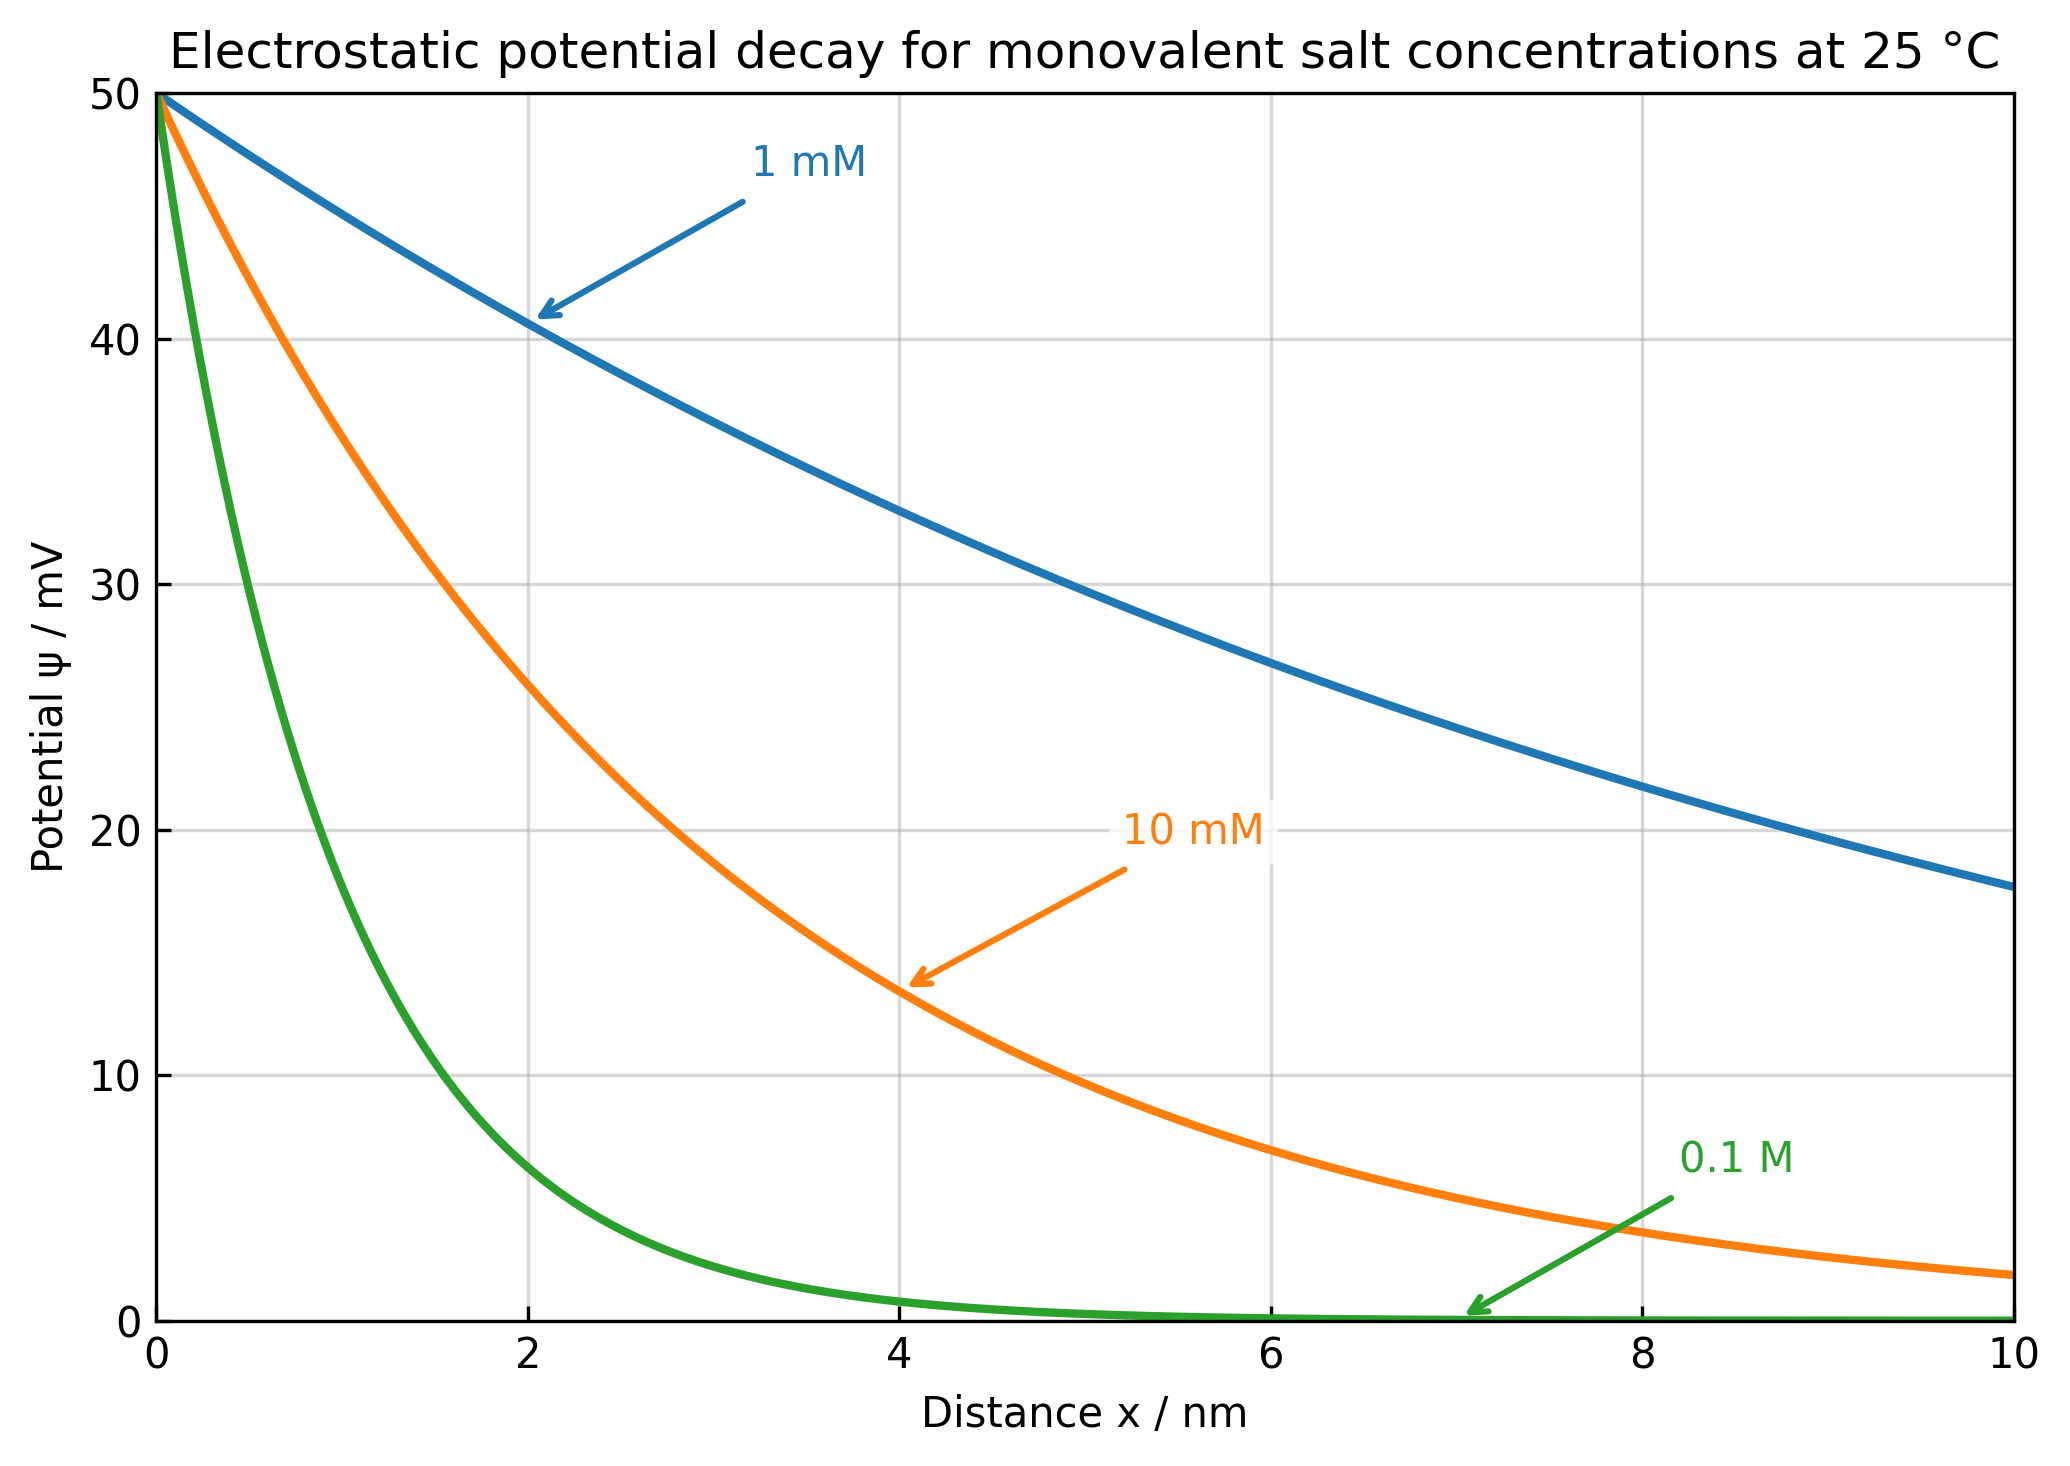
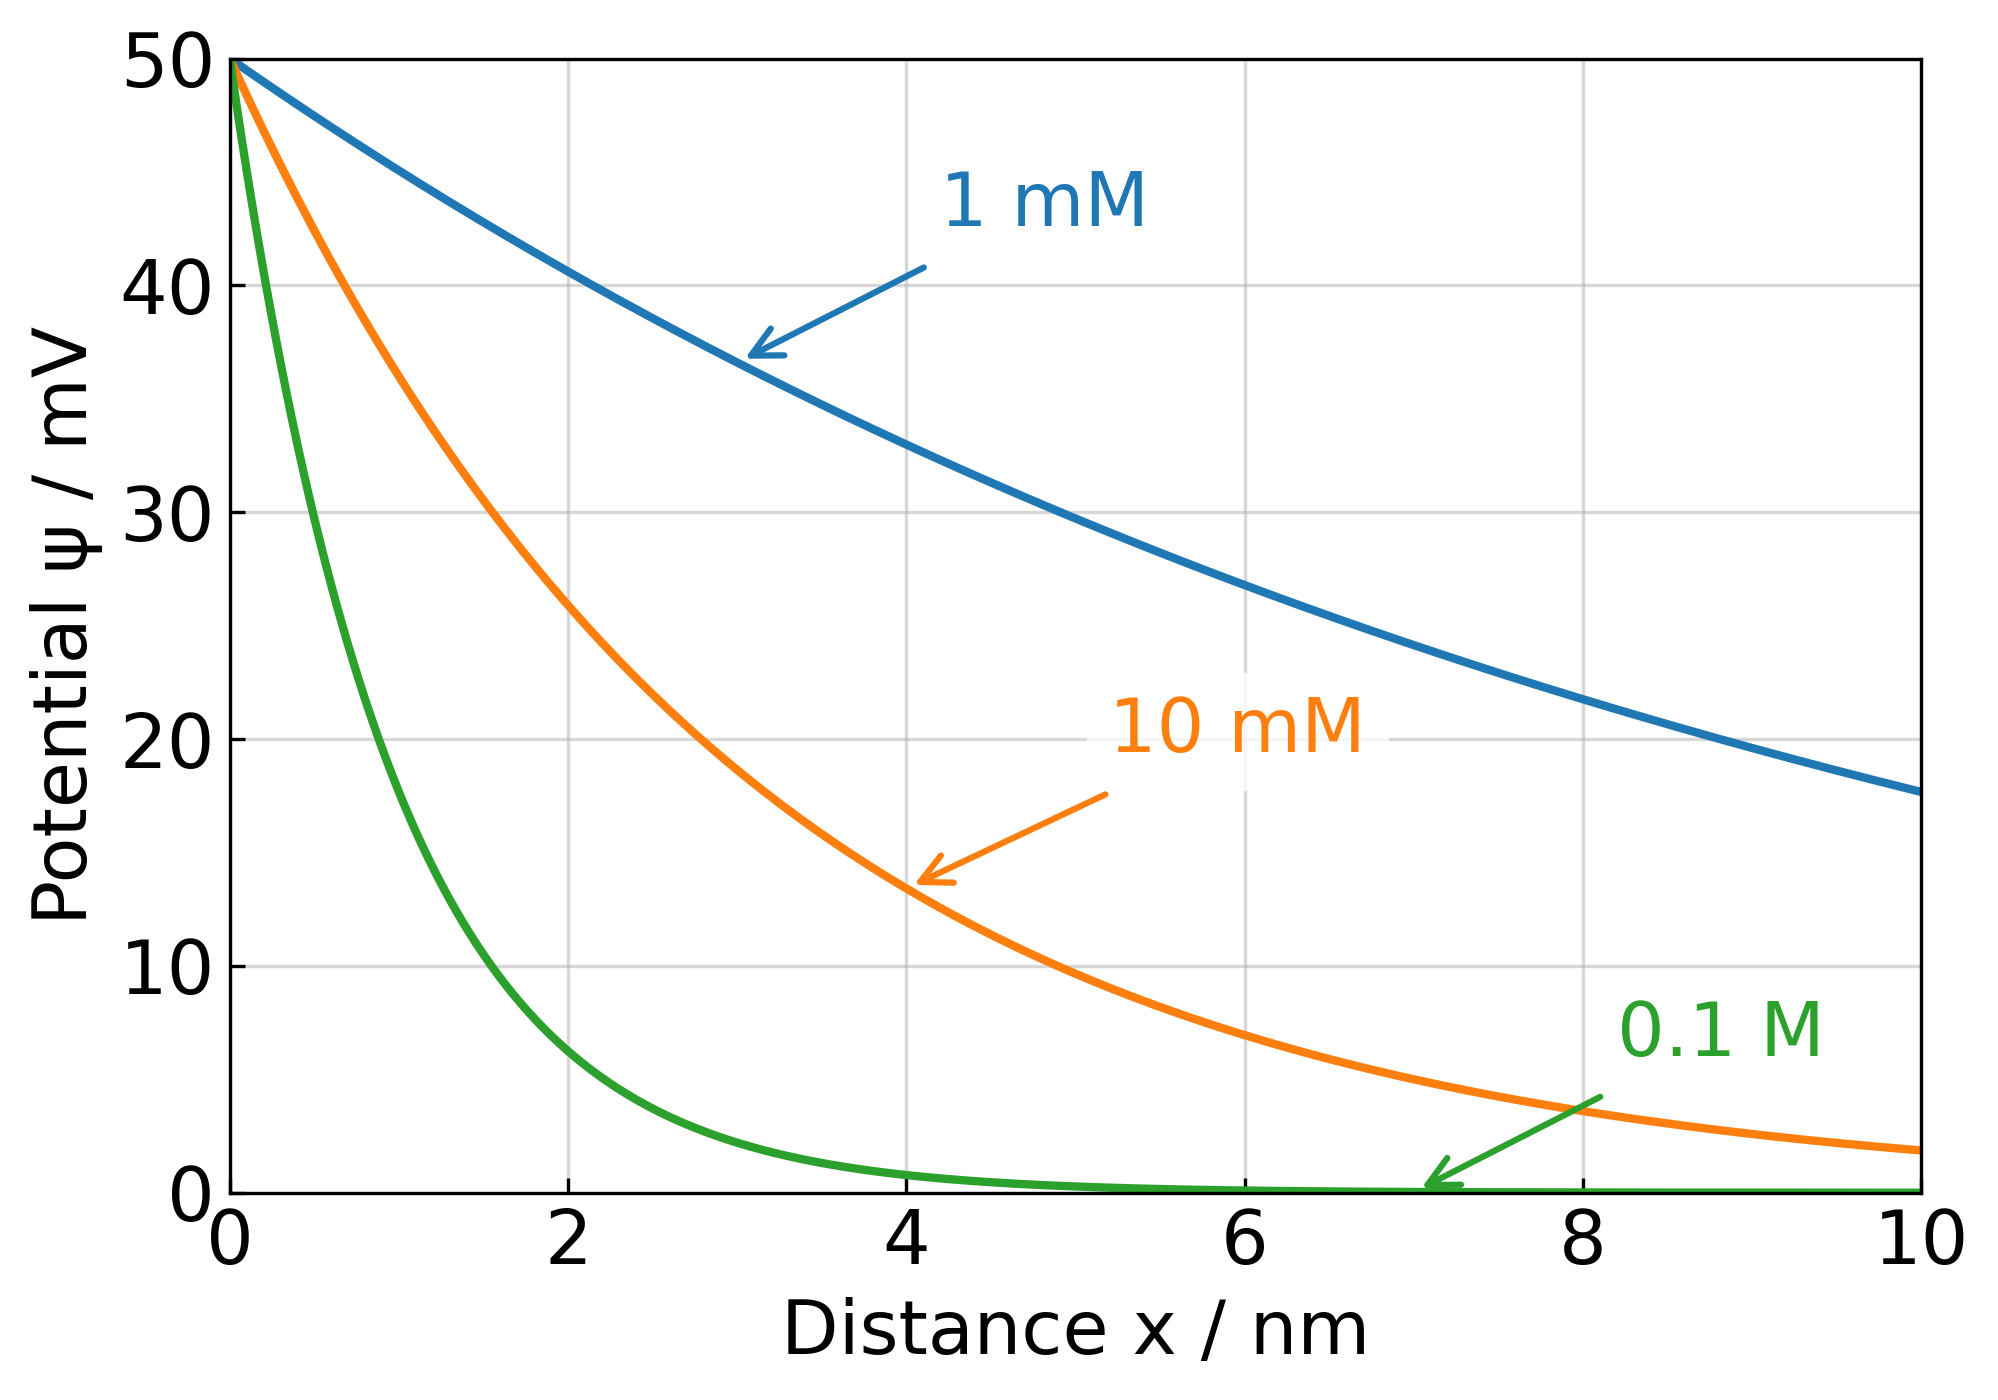
Font Size change

diff --git a/Abbildungen/SimplePythonPlots/Debye_length.py b/Abbildungen/SimplePythonPlots/Debye_length.py
@@ -5,6 +5,9 @@ import numpy as np
 #   lambda_D = 3.04 Å / sqrt(c / (1 mol L^-1))
 # where c is the salt concentration in mol L^-1.
 
+#Fontsize to 18 for everythig:
+plt.rcParams.update({"font.size": 18})
+
 def debye_length(concentration_mol_per_l):
     return 3.04e-10 / np.sqrt(concentration_mol_per_l)
 
@@ -26,7 +29,7 @@ def main():
 
     plt.figure(figsize=(7, 5))
     annotation_positions = {
-        "1 mM": (2.0, 13),
+        "1 mM": (3.0, 13),
         "10 mM": (4.0, 22),
         "0.1 M": (7.0, 40),
     }
@@ -45,13 +48,13 @@ def main():
             textcoords="data",
             arrowprops=dict(arrowstyle="->", color=line.get_color(), lw=1.5),
             color=line.get_color(),
-            fontsize=10,
+            fontsize=18,
             bbox=dict(boxstyle="round,pad=0.3", fc="white", alpha=0.8, ec="none"),
         )
 
     plt.xlabel("Distance x / nm")
     plt.ylabel("Potential ψ / mV")
-    plt.title("Electrostatic potential decay for monovalent salt concentrations at 25 °C")
+    # plt.title("Electrostatic potential decay for monovalent salt concentrations at 25 °C")
     plt.xlim(0, 10)
     plt.ylim(0, 50)
     plt.grid(True, linestyle="-", alpha=0.5)